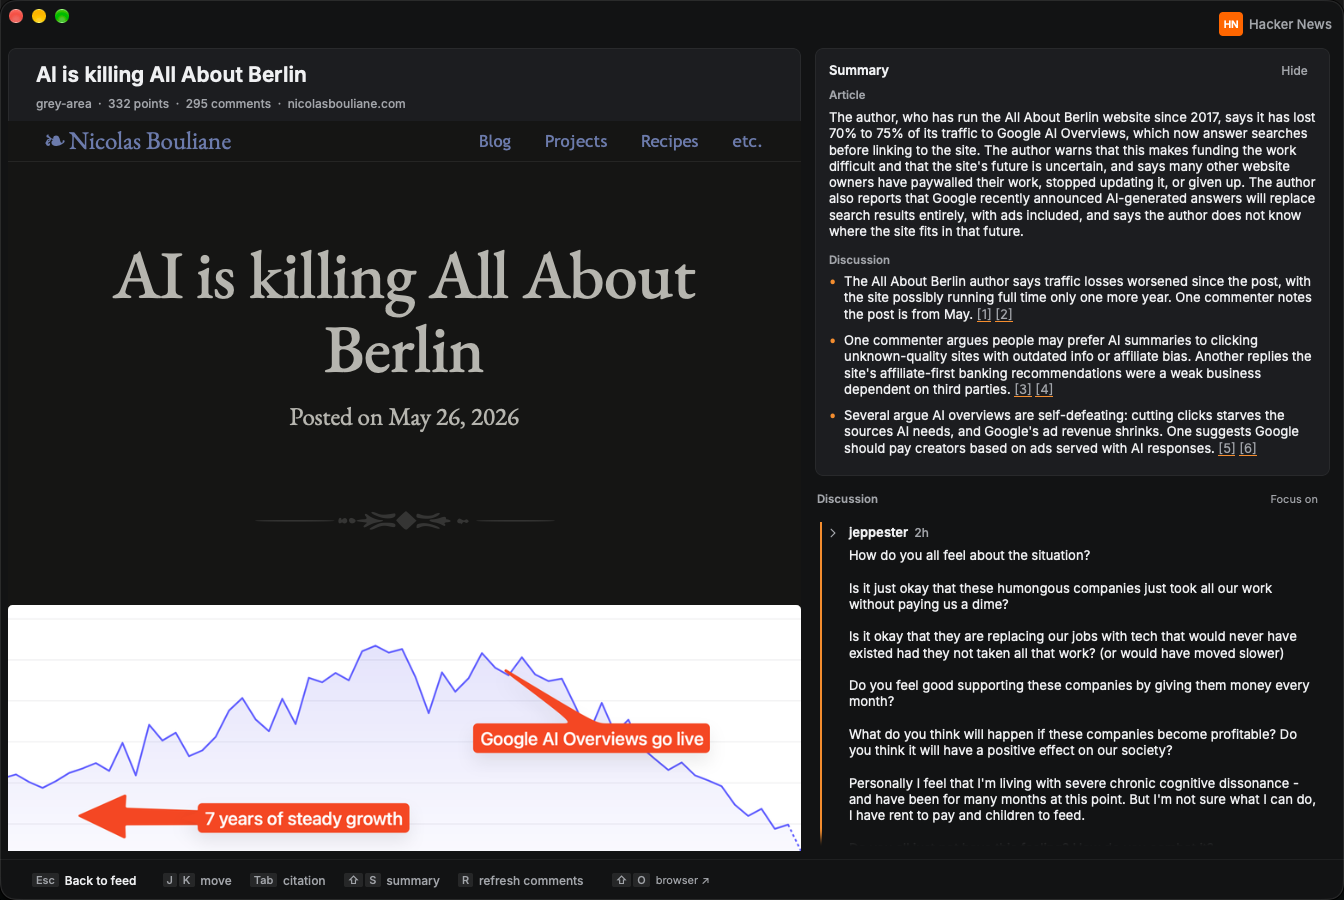
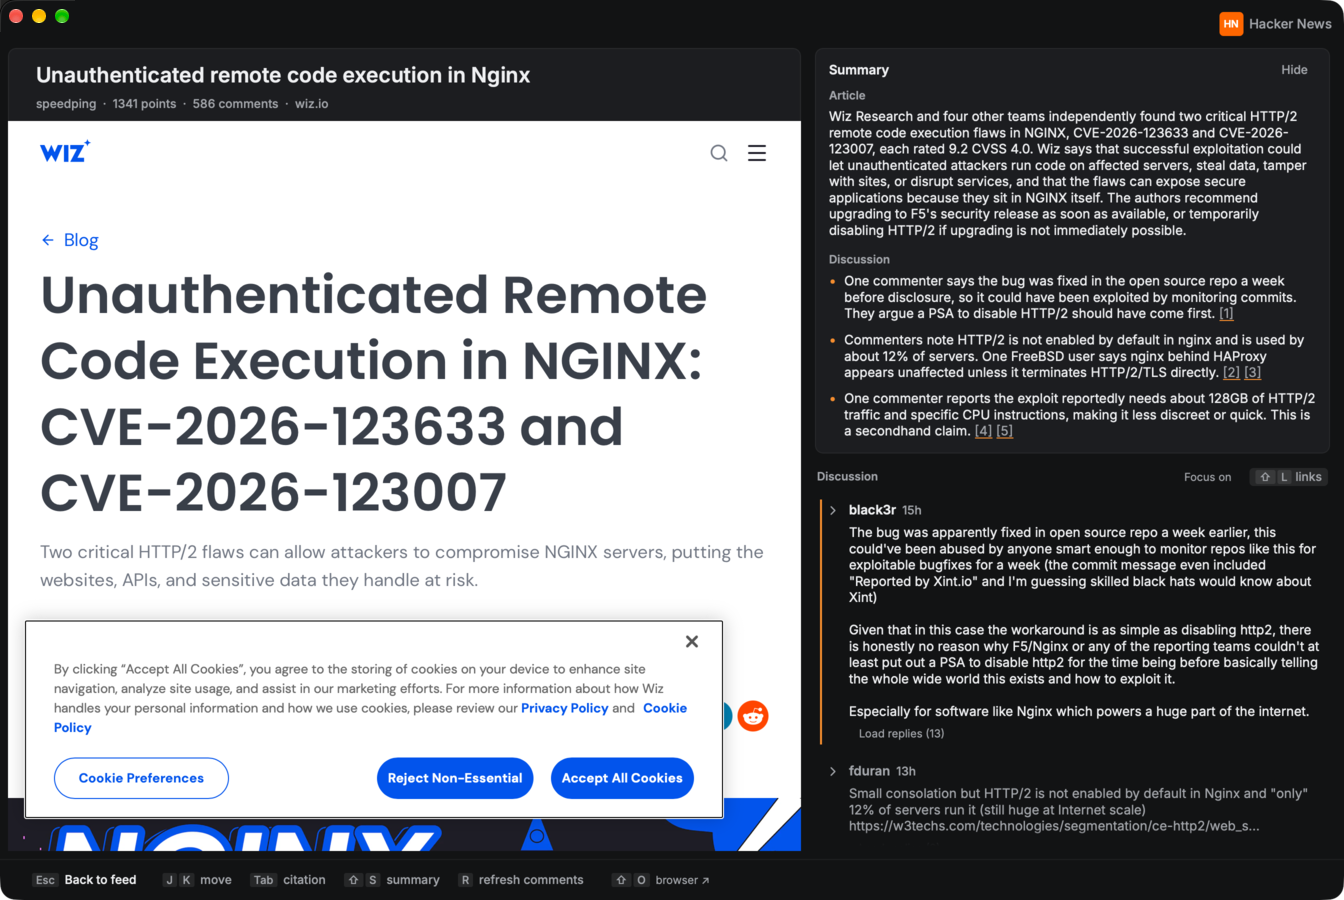
docs: re-record the Mac demo and stills on the current build
The reading journey (feed, open a story, the summary writing itself in, Tab to a
citation, Enter to its comment, back) and the four stills, captured from the window
itself with ScreenCaptureKit on main.

Claude-Session: https://claude.ai/code/session_01XLmvxycjPCoV8bvWPc2nTW

diff --git a/README.md b/README.md
@@ -14,7 +14,7 @@
 
 | Dark | Light |
 |---|---|
-| ![The Berlin story: its live page on the left, the article and discussion summary with numbered citations above the comments on the right](docs/screenshots/desktop/story-dark.png) | ![The same story in the light appearance](docs/screenshots/desktop/story-light.png) |
+| ![The Nginx story: its live page on the left, the article and discussion summary with numbered citations above the comments on the right](docs/screenshots/desktop/story-dark.png) | ![The same story in the light appearance](docs/screenshots/desktop/story-light.png) |
 
 - **The real page, next to the thread.** Opening a story puts its page on the left and the discussion on the right. Drag the divider, or hide the discussion with `⌘\`.
 - **Summaries you can check.** The article and discussion summaries stay pinned above the comments. `Tab` selects a citation and `Enter` opens the comment behind it, with its replies.
@@ -24,7 +24,7 @@
 
 | Read the cited comment | Two-column feed |
 |---|---|
-| ![Citation 1 opened: the article's author replying in the thread](docs/screenshots/desktop/citation.png) | ![The Top feed in two columns, with one story selected](docs/screenshots/desktop/feed.png) |
+| ![Citation 1 opened: the comment it came from, with its replies](docs/screenshots/desktop/citation.png) | ![The Top feed in two columns, with one story selected](docs/screenshots/desktop/feed.png) |
 
 **Install:** download the zip above, unzip it, and drag **HN** to Applications. Summaries are optional: open Settings with `⌘,` and add an OpenRouter or Anthropic key. To build it yourself, run `cd desktop && cargo run --release`; rustup fetches the pinned toolchain. The [desktop README](desktop/README.md) covers the details.
 
